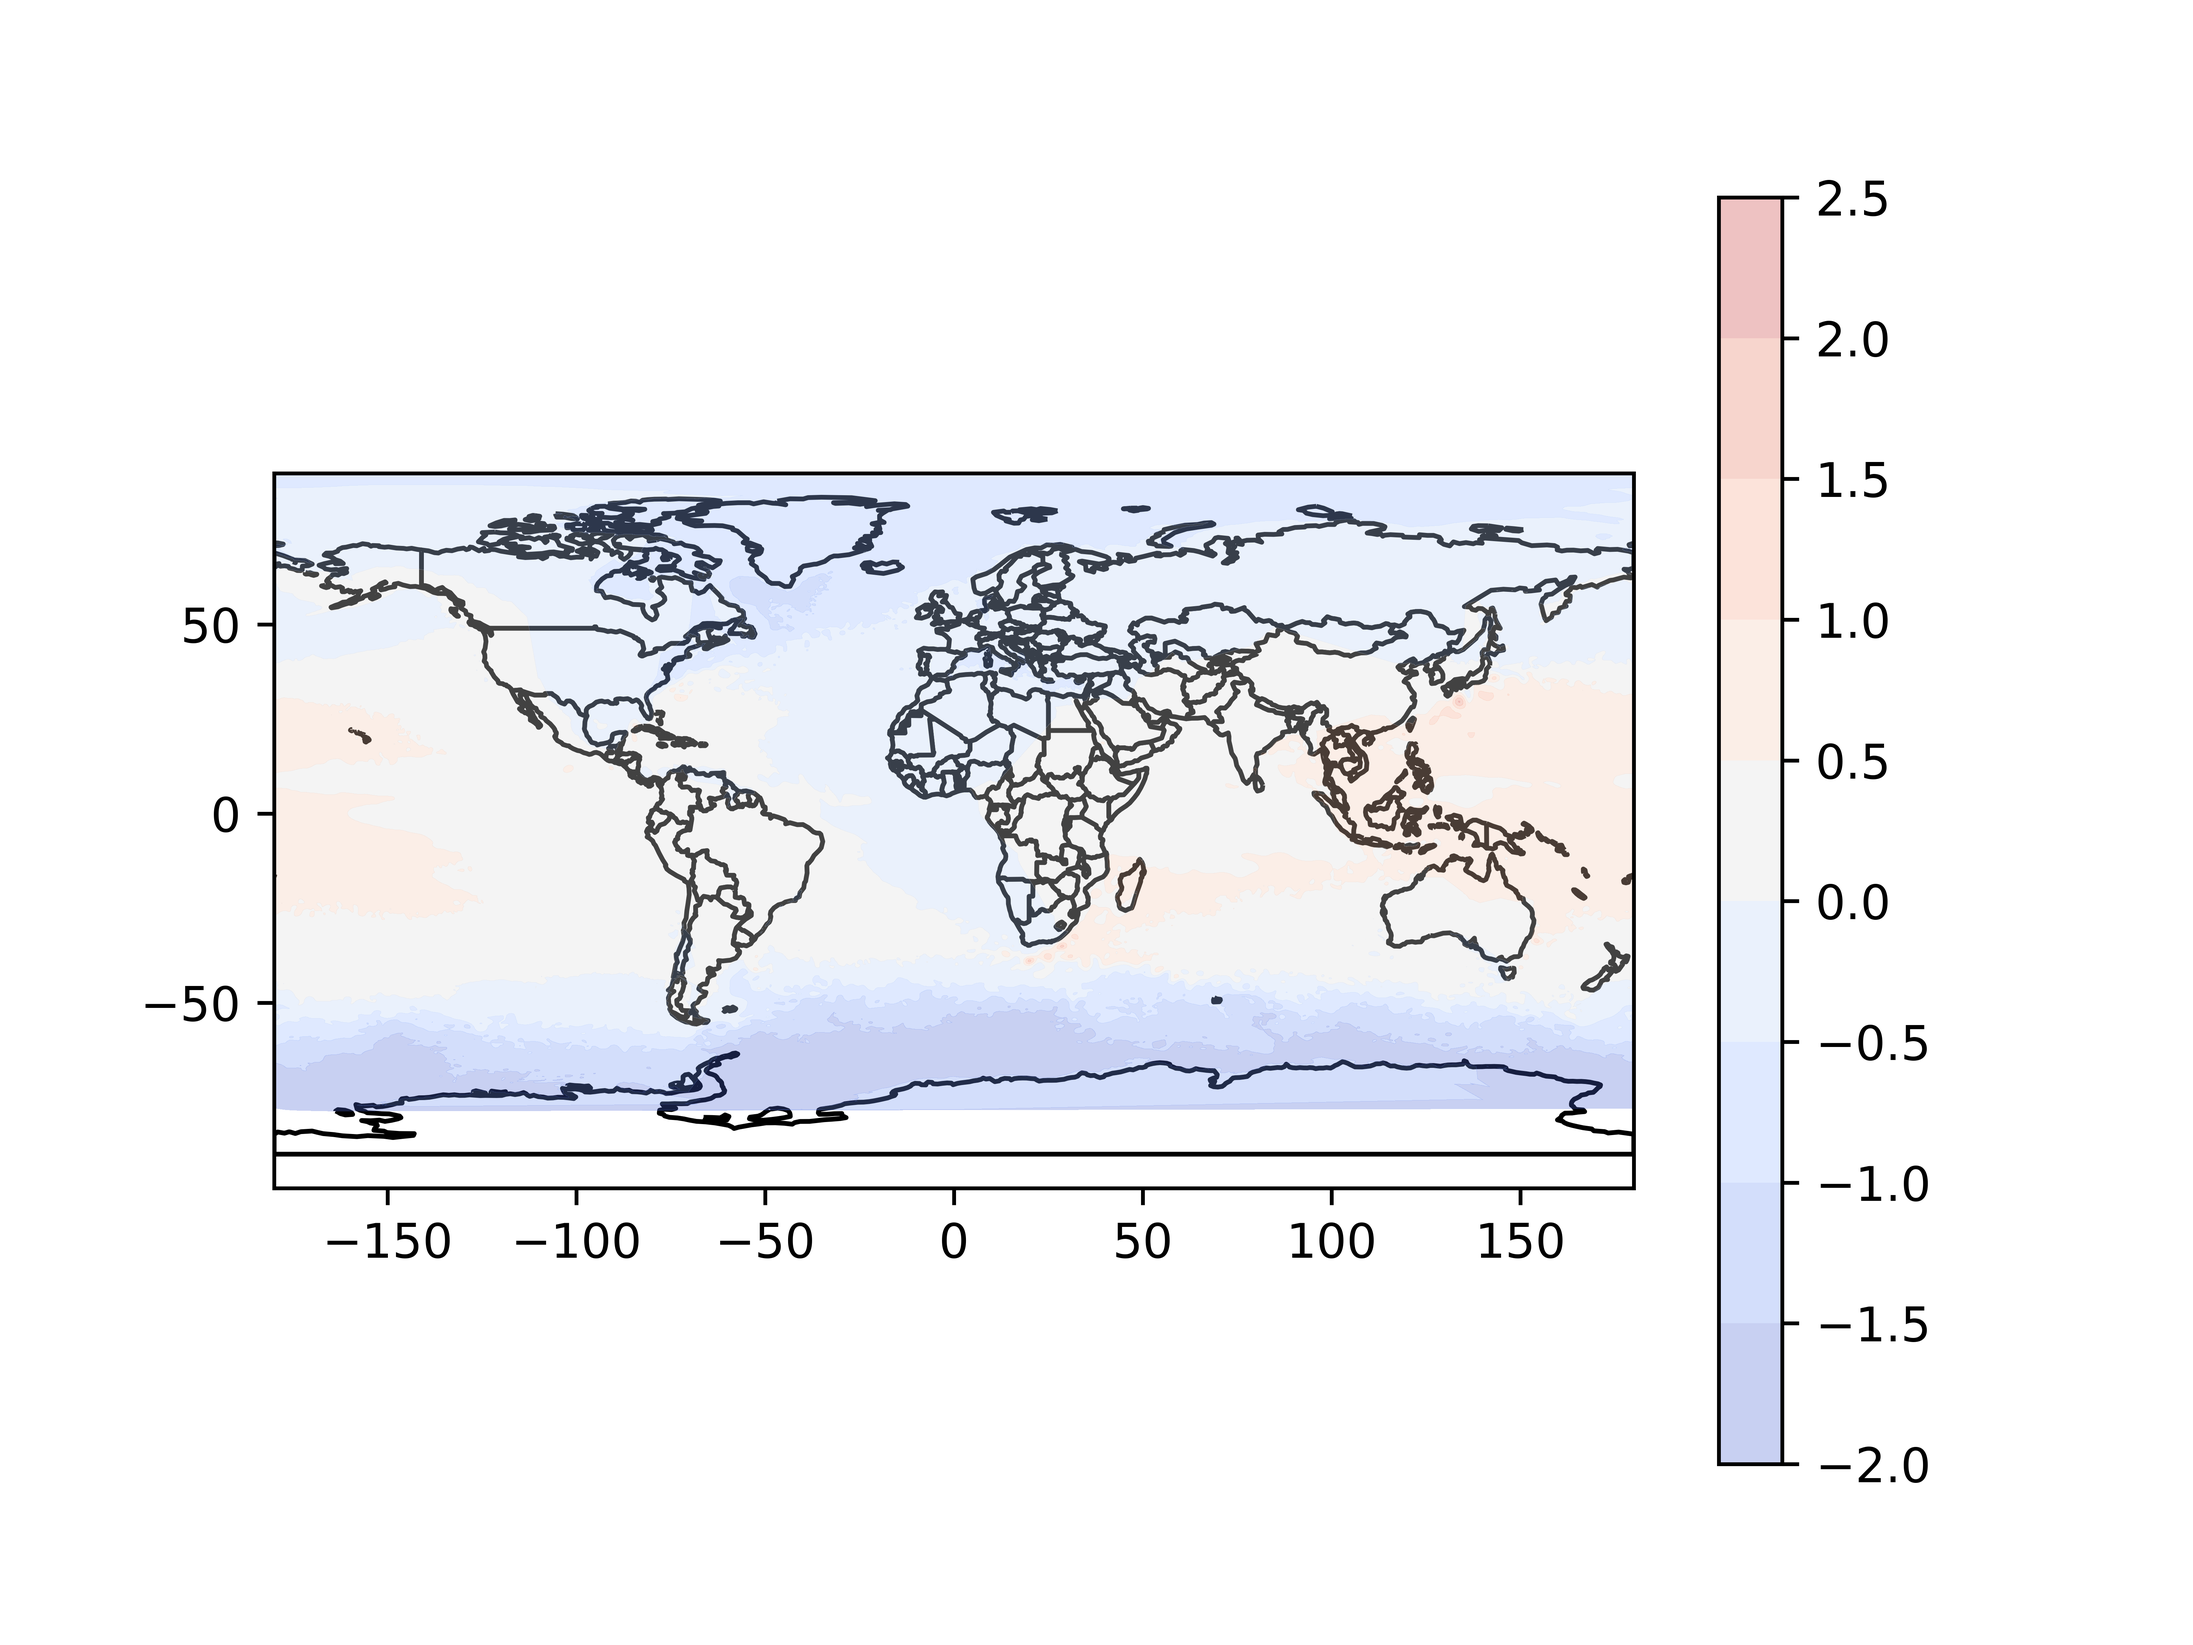
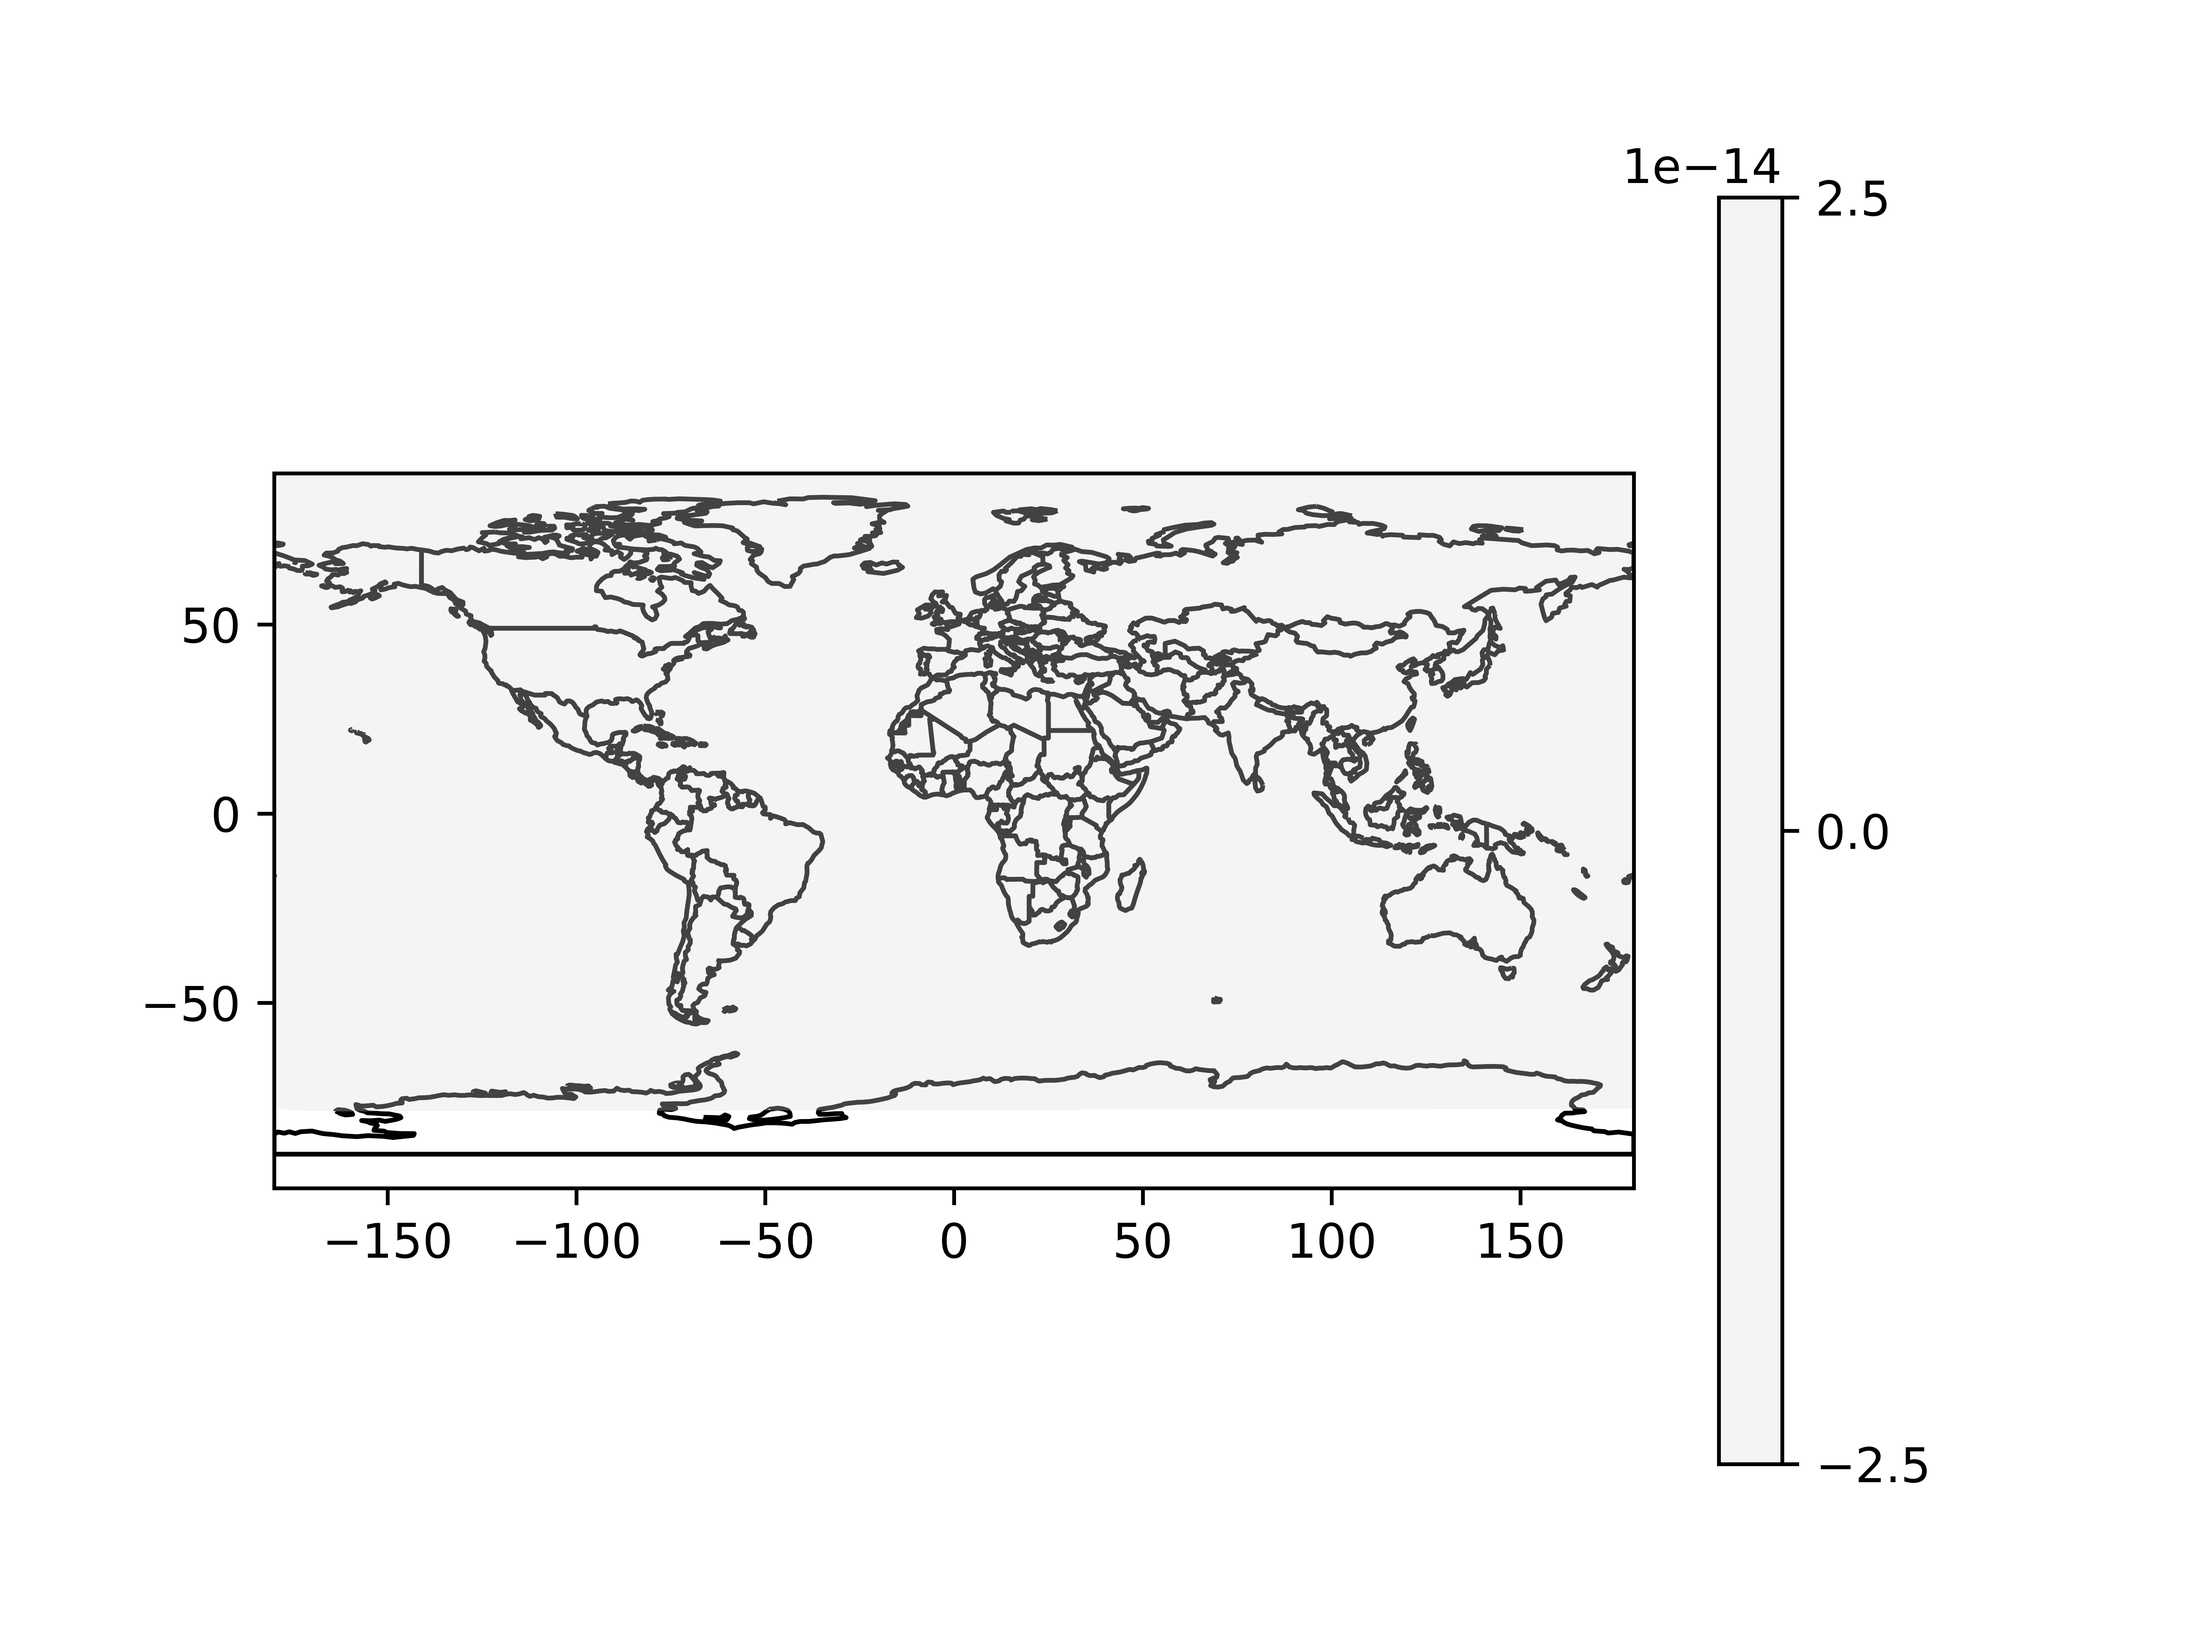
Fixed plotting

diff --git a/reading_data/plotting/map_plotter.py b/reading_data/plotting/map_plotter.py
@@ -29,7 +29,8 @@ def map_plot(df, grid, filename="map.png"):
     # print(df_grid.sea_surface_elevation)
     print("KDE")
 
-    plt.tricontourf(df_grid.lon, df_grid.lat, df_grid.iloc[:, 2], cmap='coolwarm', alpha=0.3)
+    # plt.tricontourf(df_grid.lon, df_grid.lat, df_grid.iloc[:, 2], cmap='coolwarm', alpha=0.3)
+    plt.tricontourf(df_grid.lon, df_grid.lat, df_grid.iloc[:, 2], cmap='coolwarm', alpha=0.3, vmin=-1.90, vmax=2)
 
     # plt.scatter(x=df_grid.lon, y=df_grid.lat, c=df_grid.iloc[:,2], s=0.01, cmap='coolwarm')
     plt.colorbar()
@@ -107,6 +108,7 @@ if __name__ == "__main__":
     # unod.head(1_000_000).plot()
     # plt.show()
     # print(vnod.head(10))
-    # map_plot(ssh, grid, filename="shh_map.png")
+    # print(ssh.iloc[0])
+    map_plot(ssh.loc[[11]], grid, filename="shh_map.png")
     # map_plot(unod, grid, filename="unod_map.png")
     # map_plot(vnod, grid, filename="vnod_map.png")
